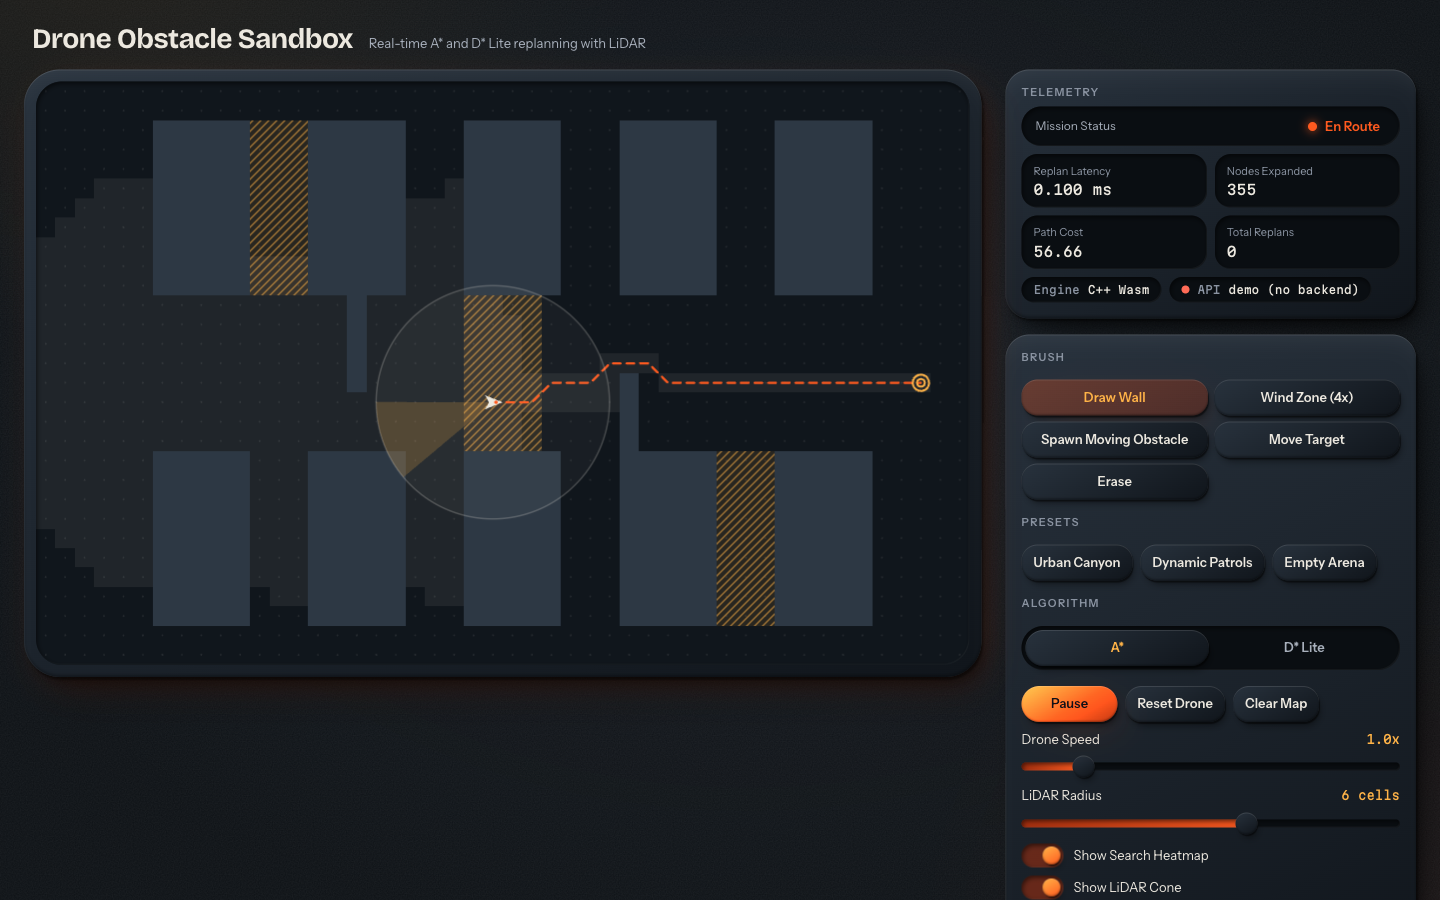
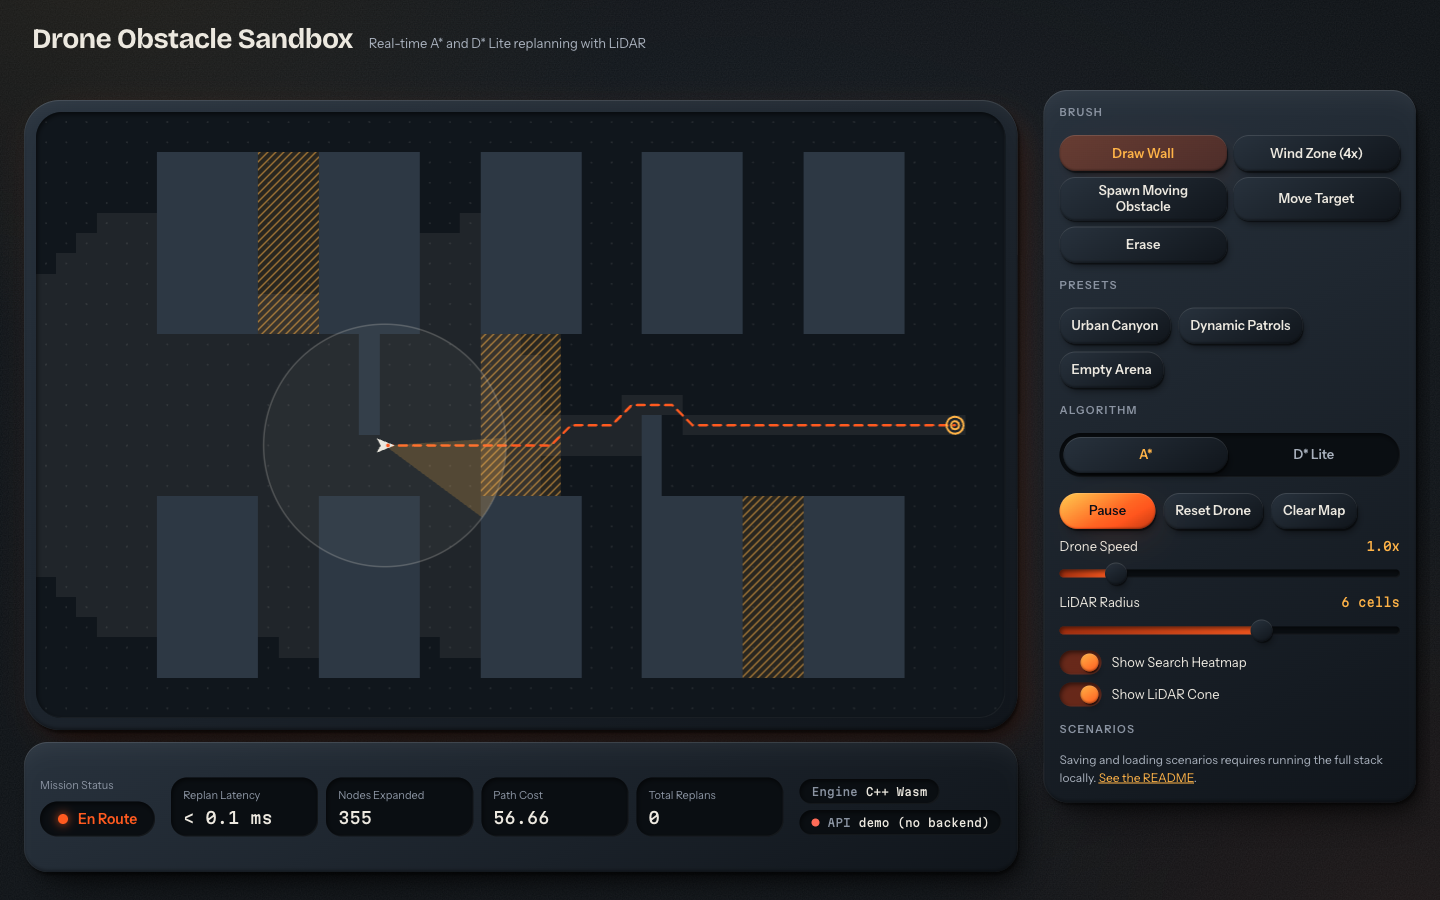
feat: instrument strip under map, viewport-height desktop layout, reduced-motion evidence

diff --git a/web/src/styles.css b/web/src/styles.css
@@ -64,26 +64,18 @@ h3 {
   margin: 0 auto;
   padding: var(--gutter);
 }
-header { display: flex; flex-wrap: wrap; align-items: baseline; gap: var(--space-1) var(--space-4); padding: 0 var(--space-2); }
+header { display: flex; align-items: baseline; gap: var(--space-1) var(--space-4); padding: 0 var(--space-2); height: 48px; flex: none; }
 header span { color: var(--text-dim); font-size: 13px; }
 
-main {
-  display: grid;
-  grid-template-columns: minmax(0, 7fr) minmax(300px, 3fr);
-  gap: var(--space-5);
-  align-items: start;
-}
-aside { min-width: 0; display: flex; flex-direction: column; gap: var(--space-4); }
+/* The deck is the left column: map stage over the instrument strip, one aspect-ratio-driven unit. */
+main { display: grid; grid-template-columns: minmax(0, 1fr); gap: var(--space-4); align-items: start; }
+.left { min-width: 0; display: flex; min-height: 0; }
+.deck { width: 100%; margin: auto; display: flex; flex-direction: column; gap: 12px; }
+.console { min-width: 0; display: flex; flex-direction: column; gap: var(--space-4); }
 
-/*
- * The stage hugs the map: its width is capped so the map, whose box keeps the grid's aspect
- * ratio, fits the viewport height, and its height is simply the map plus padding.
- * 12px padding on each side is the bezel; 1.6 is 48 columns over 30 rows.
- */
+/* The stage hugs the map: the box inside keeps the grid's aspect ratio (48x30 = 1.6) and the 12px bezel is padding. */
 .stage {
-  position: sticky;
-  top: var(--gutter);
-  width: min(100%, calc((100dvh - 96px) * 1.6 + 24px));
+  width: 100%;
   padding: 12px;
   border-radius: var(--radius-stage);
   background: var(--body-gradient);
@@ -122,31 +114,28 @@ aside { min-width: 0; display: flex; flex-direction: column; gap: var(--space-4)
 .panel { display: flex; flex-direction: column; gap: var(--space-4); }
 .panel section { display: flex; flex-direction: column; gap: var(--space-2); }
 
-/* telemetry */
-.hud-label { color: var(--text-dim); font-size: 12px; }
-.hud-status {
-  display: flex; align-items: center; justify-content: space-between; gap: var(--space-3);
-  padding: 8px 8px 8px 14px; margin-bottom: var(--space-2);
-  border-radius: var(--radius-pill); background: var(--well); box-shadow: var(--well-inset);
+/* telemetry: an instrument strip under the map */
+.hud-label { color: var(--text-faint); font-size: 11px; }
+.hud { display: grid; grid-template-columns: auto minmax(0, 1fr) auto; align-items: center; gap: var(--space-4); height: var(--strip-h); padding: var(--space-3) var(--space-4); }
+.hud-status { display: flex; flex-direction: column; align-items: flex-start; gap: 8px; }
+.status {
+  display: inline-flex; align-items: center; gap: 10px; padding: 9px 18px; border-radius: var(--radius-pill);
+  background: var(--well); box-shadow: var(--well-inset); font: 600 14px/1.2 var(--font-body); white-space: nowrap;
 }
-.status { display: inline-flex; align-items: center; gap: 8px; padding: 4px 12px; font: 600 13px/1.2 var(--font-body); }
-.lamp { width: 9px; height: 9px; border-radius: 50%; background: currentColor; box-shadow: 0 0 10px currentColor; }
+.lamp { width: 10px; height: 10px; border-radius: 50%; background: currentColor; box-shadow: 0 0 10px currentColor; }
 .status.en-route { color: var(--paint); }
 .status.replanning { color: var(--paint-hi); }
 .status.reached { color: var(--pass); }
 .status.blocked { color: var(--blocked); }
 .status.idle { color: var(--text-dim); }
-.hud-grid { margin: 0; display: grid; grid-template-columns: 1fr 1fr; gap: var(--space-2); }
-.readout {
-  min-width: 0; padding: 9px 12px; border-radius: var(--radius-control);
-  background: var(--well); box-shadow: var(--well-inset);
-}
+.hud-grid { margin: 0; display: grid; grid-template-columns: repeat(4, minmax(0, 1fr)); gap: var(--space-2); }
+.readout { min-width: 0; padding: 10px 12px; border-radius: var(--radius-control); background: var(--well); box-shadow: var(--well-inset); }
 .readout dt { color: var(--text-faint); font-size: 11px; white-space: nowrap; }
-.readout dd { margin: 2px 0 0; font: 500 14px/1.25 var(--font-mono); font-variant-numeric: tabular-nums; white-space: nowrap; }
-.chips { display: flex; flex-wrap: wrap; gap: var(--space-2); margin-top: var(--space-2); }
+.readout dd { margin: 4px 0 0; font: 500 16px/1.2 var(--font-mono); font-variant-numeric: tabular-nums; white-space: nowrap; }
+.chips { display: flex; flex-direction: column; align-items: flex-start; gap: 6px; }
 .chip {
   display: inline-flex; align-items: center; gap: 8px; padding: 6px 12px; border-radius: var(--radius-pill);
-  background: var(--well); box-shadow: var(--well-inset); font: 500 11px/1.2 var(--font-mono);
+  background: var(--well); box-shadow: var(--well-inset); font: 500 11px/1.2 var(--font-mono); white-space: nowrap;
 }
 .chip-k { color: var(--text-faint); }
 .dot { width: 8px; height: 8px; border-radius: 50%; display: inline-block; }
@@ -238,13 +227,35 @@ input[type='range']::-moz-range-thumb {
 :focus-visible { outline: var(--focus-ring); outline-offset: 2px; }
 .toggle input:focus-visible, input[type='range']:focus-visible { border-radius: var(--radius-pill); }
 
-/* phones and narrow windows: map full width on top, console stacked below */
+/* narrow windows (below 1024): map on top, telemetry strip next, console last; the page scrolls */
+@media (max-width: 1023px) {
+  .hud { height: auto; grid-template-columns: minmax(0, 1fr); gap: var(--space-3); }
+  .hud-status { flex-direction: row; align-items: center; justify-content: space-between; }
+  .hud-grid { grid-template-columns: 1fr 1fr; }
+  .chips { flex-direction: row; flex-wrap: wrap; }
+  .deck { max-width: 900px; }
+}
 @media (max-width: 760px) {
-  .app { gap: var(--space-3); }
-  main { grid-template-columns: minmax(0, 1fr); gap: var(--space-4); }
-  .stage { position: static; width: 100%; padding: 8px; border-radius: var(--radius-card); }
+  .app { padding: 8px; gap: var(--space-2); }
+  .stage { padding: 8px; border-radius: var(--radius-card); }
   .canvas-box { border-radius: var(--radius-control); }
   .hud, .panel { padding: var(--space-3); }
+}
+
+/* desktop: the app is exactly the viewport; the console scrolls inside its own column */
+@media (min-width: 1024px) {
+  :root { --strip-h: 130px; }
+  html, body { overflow: hidden; }
+  .app { height: 100dvh; min-height: 0; padding-bottom: var(--space-4); }
+  main { flex: 1; min-height: 0; grid-template-columns: minmax(0, 1fr) clamp(320px, 26vw, 400px); gap: var(--space-5); align-items: stretch; }
+  /* chrome = header 48 + app padding 32 + gaps 16 + 12 + strip + stage bezel 24 */
+  .deck { width: min(100%, calc((100dvh - 48px - 32px - 16px - 12px - var(--strip-h) - 24px) * 1.6 + 24px)); }
+  .console {
+    overflow-y: auto; scrollbar-width: none; padding: 2px 14px 44px 2px; margin-right: -14px;
+    -webkit-mask-image: linear-gradient(to bottom, #000 calc(100% - 44px), transparent);
+    mask-image: linear-gradient(to bottom, #000 calc(100% - 44px), transparent);
+  }
+  .console::-webkit-scrollbar { display: none; }
 }
 
 @media (prefers-reduced-motion: reduce) {

diff --git a/web/src/App.tsx b/web/src/App.tsx
@@ -123,9 +123,13 @@ export function App() {
         <span>Real-time A* and D* Lite replanning with LiDAR</span>
       </header>
       <main>
-        <section className="stage"><DroneCanvas sim={sim} brush={brush} showHeat={showHeat} showLidar={showLidar} /></section>
-        <aside>
-          <TelemetryHud engine={sim.planner.mode} stats={stats} apiOnline={apiOnline} demo={isDemoMode()} />
+        <div className="left">
+          <div className="deck">
+            <section className="stage"><DroneCanvas sim={sim} brush={brush} showHeat={showHeat} showLidar={showLidar} /></section>
+            <TelemetryHud engine={sim.planner.mode} stats={stats} apiOnline={apiOnline} demo={isDemoMode()} />
+          </div>
+        </div>
+        <aside className="console">
           <ControlPanel
             brush={brush} onBrush={setBrush}
             mode={mode} onMode={setMode}

diff --git a/web/src/components/TelemetryHud.tsx b/web/src/components/TelemetryHud.tsx
@@ -24,8 +24,7 @@ export function TelemetryHud({ engine, stats, apiOnline, demo = false }: Props) 
     ['Total Replans', String(stats.replans)],
   ];
   return (
-    <div className="hud">
-      <h3>Telemetry</h3>
+    <section className="hud" aria-label="Telemetry">
       <div className="hud-status">
         <span className="hud-label">Mission Status</span>
         <span className={`status ${statusClass}`}><i className="lamp" />{stats.status}</span>
@@ -45,6 +44,6 @@ export function TelemetryHud({ engine, stats, apiOnline, demo = false }: Props) 
           <span className="chip-k">API</span>{demo ? 'demo (no backend)' : apiOnline ? 'online' : 'offline'}
         </span>
       </div>
-    </div>
+    </section>
   );
 }

diff --git a/docs/reports/ui-foundation.md b/docs/reports/ui-foundation.md
@@ -7,8 +7,8 @@ Branch `feat/ui-foundation`. Scope: tokens, fonts, springs, stage layout, the 39
 - `web/src/styles/tokens.css`: palette (stage `#0C1014` family, surfaces, warm paper text, paint `#FF5A1F` / hi `#FFB347` / deep `#A8300F`, status green and ember), radius ladder 10/16/24/36/pill, bevel / well / contact-shadow / rim tokens lit from the top left, and the two springs as CSS `linear()` easings. `styles/tokens.test.ts` regenerates the springs from `spring.ts` and fails if the CSS drifts.
 - `web/src/styles/fonts.css` + `web/src/assets/fonts/`: Bricolage Grotesque 700, Instrument Sans 400/600, Martian Mono 400/500, latin subset woff2 from Fontsource 5.3.0 (77 KB total), all OFL-1.1, licence texts in `assets/fonts/LICENSE`. URLs go through Vite so they respect `VITE_BASE`.
 - `web/src/motion/spring.ts`: soft (90/12, about 880 ms, about 7.7% overshoot) and snappy (520/30, about 350 ms), `springStep`, `stepResponse`, `springEase`, `springToLinear`, `tween` (cancellable, injectable clock) and `prefersReducedMotion`.
-- Layout (`styles.css`, `DroneCanvas.tsx`): the canvas box keeps the grid's aspect ratio and the stage hugs it. Desktop is a 7fr / 3fr grid (map about 70%) with the console on the right and the stage width capped so the map fits the viewport height. At 760 px and below the map is full width on top and the console stacks below. The 390 px bug is fixed: the old fixed-height stage and integer cell sizing clipped the map. Verified at 390x844: `scrollWidth == clientWidth`, whole map visible.
-- Stage backdrop: three static light pools plus SVG grain; the grain drift animation is off under `prefers-reduced-motion`.
+- Layout (`styles.css`, `App.tsx`, `TelemetryHud.tsx`, `DroneCanvas.tsx`): at 1024 px and up the app is exactly one viewport high (`100dvh`, no page scroll). The left column is the map stage with an instrument strip directly under it (status lamp, four readouts, Engine and API pills in one 130 px row). The map keeps its 48:30 aspect ratio, is sized by min(width, height) and is centred, so there is no dead band. The right column is the console only; it scrolls internally with a soft bottom fade mask and a hidden scrollbar. At 1440x900 everything from Brush to the overlay toggles (and Scenarios) is visible without scrolling. Header is 48 px with the subtitle on the same baseline. Below 1024 px it is one column: map, then the telemetry strip (status plus 2x2 readouts), then the console. At 390x844 the map is 358 px wide (8 px app padding plus 8 px bezel), `scrollWidth == clientWidth`, whole map visible. The old 390 px bug (fixed-height stage, integer cell sizes) is fixed.
+- Stage backdrop: three static light pools plus SVG grain; the grain drift animation is off under `prefers-reduced-motion`. Verified in Chromium with `emulateMedia({reducedMotion:'reduce'})`: computed `animation-name` is `none` on `body::after`, and `transition-duration` is `0s` on `.btn`, `.seg button`, `.toggle input` and its pseudo-elements.
 - Panels and controls restyled to rounded bevelled surfaces: telemetry readouts as wells, pill status lamp, bevelled buttons, orange primary, pill segmented control, custom range sliders and toggle switches (still real `input` elements). Focus rings use the amber token.
 - Loop hygiene (`render/loopControl.ts`, pure and tested): DPR capped at 2, rAF loop stopped when the canvas is off screen (IntersectionObserver) or the tab is hidden, clock rebased on resume with dt clamped to 50 ms.
 - Probe (`perf/frameStats.ts`, `perf/perfProbe.ts`): with `?perf=1`, ring buffer of 1200 frame intervals and callback work times, `window.__perf()` returning `{frames, p50, p95, max, over16_7, work}`, `window.__perfReset()`, and a small overlay. Without the flag nothing is installed (no timers, DOM or listeners).
@@ -28,21 +28,25 @@ Headless Chromium, 1440x900, Urban Canyon, A*, playing, 10 s window (1200 frames
 
 | Engine | p50 | p95 | max | over 16.7 ms | callback work p50 / p95 / max |
 |---|---|---|---|---|---|
-| C++ Wasm | 8.3 | 9.2 | 9.5 | 0 | 0.10 / 0.20 / 1.9 ms |
-| TS Fallback (wasm request blocked via Playwright route) | 8.3 | 9.2 | 11.0 | 0 | 0.10 / 0.20 / 0.5 ms |
+| C++ Wasm | 8.3 | 9.1 | 12.3 | 0 | 0.10 / 0.20 / 0.4 ms |
+| TS Fallback (wasm request blocked via Playwright route) | 8.3 | 9.1 | 11.4 | 0 | 0.10 / 0.30 / 0.4 ms |
+
+Measured on the new layout with `?perf=1`, after `__perfReset()`. The screenshots were taken in separate runs without `?perf=1`.
 
 Off-screen check: with the page scrolled so the canvas is not visible, 0 frames were recorded in 1 s, and 120 frames in the next second after scrolling back.
 
 ## Evidence
 
-`docs/redesign/pr1/after-desktop-1440.png`, `after-mobile-390.png`, `after-mobile-390-full.png`.
+`docs/redesign/pr1/after-desktop-1440.png`, `after-mobile-390.png`, `after-mobile-390-full.png` (all without the probe overlay) and `reduced-1440.png` (reduced motion). Corner audit at 1440 and 390: no visible element has a 0 radius; range thumbs and tracks, toggle tracks and focus rings were inspected zoomed in and are all rounded.
 
 ## Still weak
 
 - Map art is barely changed: flat wall squares, hatched wind, a plain arrow drone and a flat LiDAR disc. That is PR 2 to 4.
-- Controls are restyled but are still ordinary buttons and sliders, not hardware (PR 5). The console is tall: at 1440x900 the Scenarios block is below the fold.
+- Controls are restyled but are still ordinary buttons and sliders, not hardware (PR 5).
 - The heat layer is very faint now and is not distinguishable between A* and D* Lite (PR 3).
-- No before/after contact sheet, WebM, or reduced-motion screenshot in this PR; the reduced-motion path was not exercised in a browser.
+- No before/after contact sheet or WebM in this PR.
+- Section labels are still uppercase and tracked; PR 5 replaces them.
+- Between 1024 and about 1200 px wide the map is width-limited and the strip stays 130 px, so the left column can show small slack; not tuned.
 - The probe measures rAF intervals on a 120 Hz headless display, so it is not a 60 Hz verdict; a run on a real 60 Hz display would be more convincing.
 - Grain drift is a full-screen fixed layer animated with `steps()`; its cost was not isolated (frame work stays at 0.1 ms p50, but compositor cost is not measured).
 - Mobile console is a long single column with no tabs.
